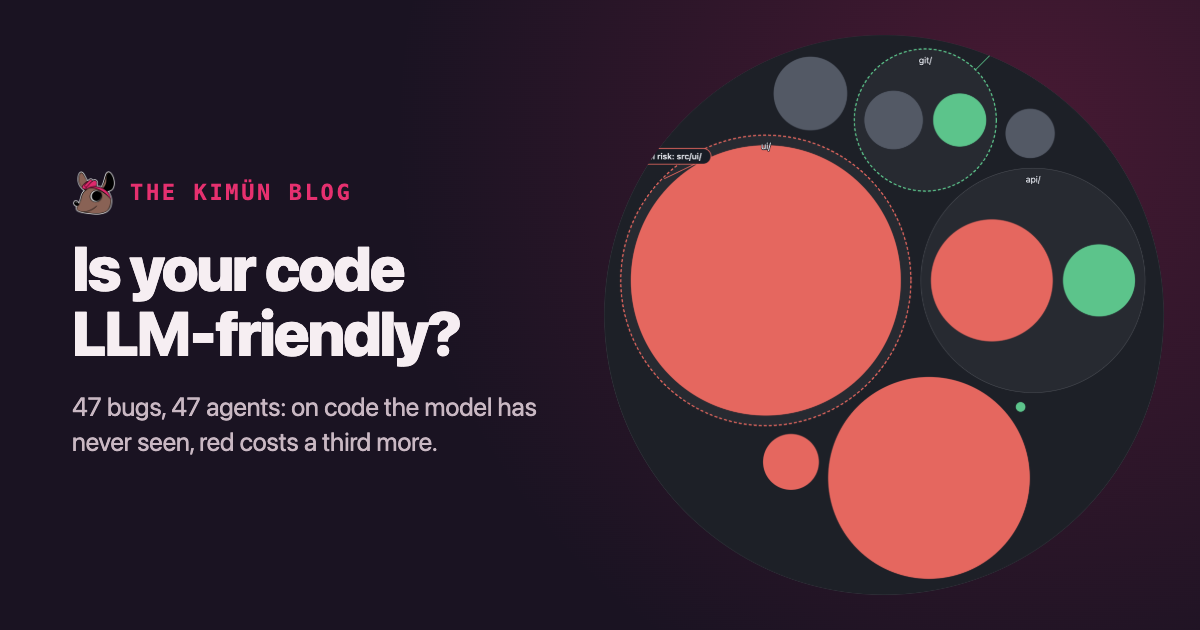
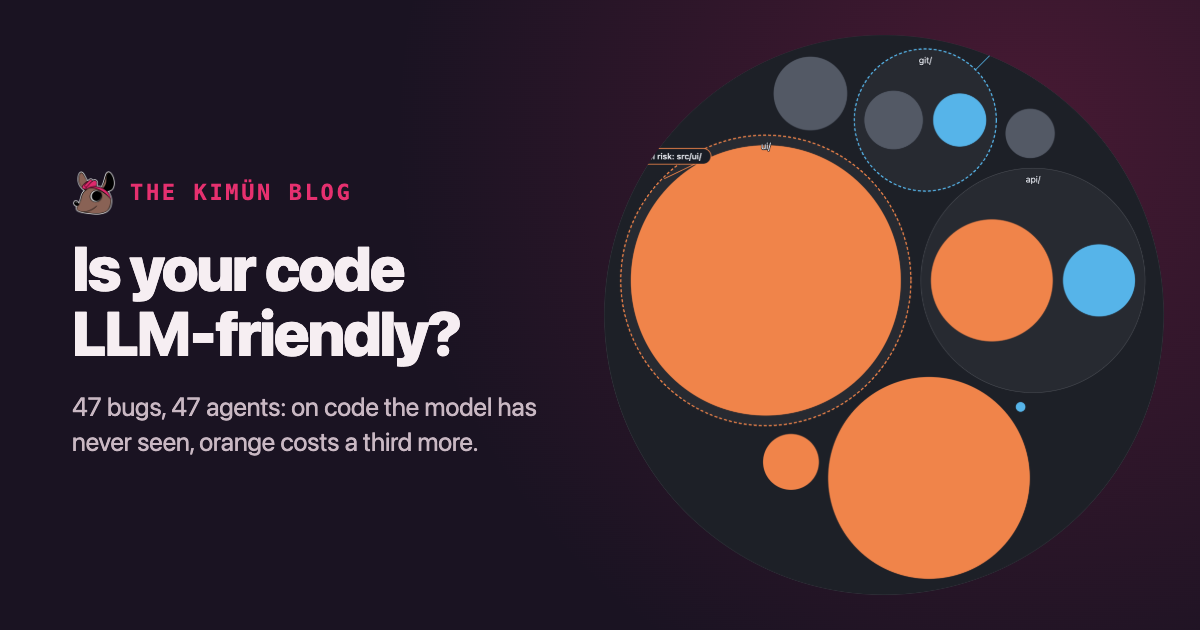
blog: the LLM post uses the map's new orange and blue palette
The maps and social cards are drawn again with the colour-blind safe
palette, the text names the new colours, and a note tells readers of
the first version why the map changed.

Changed region(s): [[0.5242, 0.2111, 0.9558, 0.9349], [0.1542, 0.6937, 0.4008, 0.7238], [0.7708, 0.1508, 0.8325, 0.2413]]

diff --git a/src/content/blog/es/is-your-code-llm-friendly.md b/src/content/blog/es/is-your-code-llm-friendly.md
@@ -1,6 +1,6 @@
 ---
 title: "¿Tu código es amistoso para un LLM?"
-description: "km map --color-by llm marca en rojo el código donde un agente debería sufrir. Lo pusimos a prueba con 47 errores: en código que el modelo ya conocía, el rojo casi no importó; en código nuevo para él, le costó un tercio más."
+description: "km map --color-by llm marca en naranja el código donde un agente debería sufrir. Lo pusimos a prueba con 47 errores: en código que el modelo ya conocía, el naranja casi no importó; en código nuevo para él, le costó un tercio más."
 date: 2026-10-23
 image: /blog/is-your-code-llm-friendly/card-es.png
 ---
@@ -11,7 +11,9 @@ En el [primer artículo de este blog](/blog/measuring-the-quality-of-ai-generate
 
 ## El mapa
 
-`km map` dibuja el código como círculos, al estilo de Adam Tornhill: cada directorio contiene a sus archivos, y el área de cada archivo crece con sus líneas de código. Con `--color-by llm`, el color sale de la nota de `km score`: **verde** desde 95 (apto para LLM), **gris** desde 70 (requiere cuidado) y **rojo** bajo 70 (riesgo). El 95 equivale al 9,5 de CodeScene, aunque las dos herramientas calculan su nota de forma distinta. Los umbrales se cambian en `.kimun.toml`.
+`km map` dibuja el código como círculos, al estilo de Adam Tornhill: cada directorio contiene a sus archivos, y el área de cada archivo crece con sus líneas de código. Con `--color-by llm`, el color sale de la nota de `km score`: **azul** desde 95 (apto para LLM), **gris** desde 70 (requiere cuidado) y **naranja** bajo 70 (riesgo). El 95 equivale al 9,5 de CodeScene, aunque las dos herramientas calculan su nota de forma distinta. Los umbrales se cambian en `.kimun.toml`.
+
+Si leíste este artículo el día que salió, viste el mapa en rojo y verde. Lo cambiamos: cerca del 8% de los hombres no distingue esos dos colores. Desde Kimün 0.45, el mapa usa naranja y azul, que se distinguen con cualquier tipo de daltonismo, y puede agregar achurados para imprimirlo en blanco y negro.
 
 ```bash
 km map --color-by llm --html mapa.html
@@ -19,7 +21,7 @@ km map --color-by llm --html mapa.html
 
 Lo corrimos sobre nueve proyectos conocidos:
 
-| Proyecto | Nota | Rojo | Gris | Verde | Donde se concentra el riesgo |
+| Proyecto | Nota | Naranja | Gris | Azul | Donde se concentra el riesgo |
 |---|---|---|---|---|---|
 | phoenix | A (92,7) | 3% | 66% | 31% | `assets/js/phoenix/` |
 | kimun | A (91,4) | 2% | 74% | 24% | `src/docs/` |
@@ -33,23 +35,23 @@ Lo corrimos sobre nueve proyectos conocidos:
 
 *Porcentaje de líneas de código en cada color. En black excluimos `profiling/` y en redis `deps/`.*
 
-![Mapa de phoenix: casi todo gris y verde, con un solo archivo rojo en assets/js/phoenix/](/blog/is-your-code-llm-friendly/phoenix.png)
+![Mapa de phoenix: casi todo gris y azul, con un solo archivo naranja en assets/js/phoenix/](/blog/is-your-code-llm-friendly/phoenix.png)
 
-*phoenix (A, 92,7). Casi todo es gris o verde. El único archivo rojo es `assets/js/phoenix/socket.js`, con nota 59,6.*
+*phoenix (A, 92,7). Casi todo es gris o azul. El único archivo naranja es `assets/js/phoenix/socket.js`, con nota 59,6.*
 
-![Mapa de click: el círculo rojo más grande es core.py](/blog/is-your-code-llm-friendly/click.png)
+![Mapa de click: el círculo naranja más grande es core.py](/blog/is-your-code-llm-friendly/click.png)
 
-*click (C, 72,5). El círculo rojo grande es `core.py`: casi 2.000 líneas de código con nota 29,7.*
+*click (C, 72,5). El círculo naranja grande es `core.py`: casi 2.000 líneas de código con nota 29,7.*
 
-![Mapa de redis: src/ es casi entero rojo](/blog/is-your-code-llm-friendly/redis.png)
+![Mapa de redis: src/ es casi entero naranja](/blog/is-your-code-llm-friendly/redis.png)
 
-*redis (F, 50,5). `src/` es casi entero rojo; lo encabeza `redis-cli.c`, con 9.569 líneas de código y nota 16,9.*
+*redis (F, 50,5). `src/` es casi entero naranja; lo encabeza `redis-cli.c`, con 9.569 líneas de código y nota 16,9.*
 
 Tres cosas saltan a la vista:
 
-- **El rojo se concentra en el núcleo.** En click, casi todo el riesgo está en `core.py`; en black, en `linegen.py`, el corazón del formateador. El código que más importa es el que más ha crecido.
-- **Una buena nota global no garantiza un mapa verde.** Flask tiene B+, pero casi la mitad de sus líneas están en rojo: muchos archivos pequeños y limpios suben el promedio y esconden a los grandes.
-- **Proyectos muy respetados salen rojos.** ripgrep, el buscador que usa VS Code, tiene la mitad de sus líneas bajo 70. Eso hace levantar una ceja con el umbral.
+- **El naranja se concentra en el núcleo.** En click, casi todo el riesgo está en `core.py`; en black, en `linegen.py`, el corazón del formateador. El código que más importa es el que más ha crecido.
+- **Una buena nota global no garantiza un mapa azul.** Flask tiene B+, pero casi la mitad de sus líneas están en naranja: muchos archivos pequeños y limpios suben el promedio y esconden a los grandes.
+- **Proyectos muy respetados salen naranjas.** ripgrep, el buscador que usa VS Code, tiene la mitad de sus líneas bajo 70. Eso hace levantar una ceja con el umbral.
 
 Si la hipótesis es cierta, un agente debería sudar la gota gorda en `click/core.py` y andar sin problemas en `flask/config.py`. Eso se puede medir.
 
@@ -57,67 +59,67 @@ Si la hipótesis es cierta, un agente debería sudar la gota gorda en `click/cor
 
 Diseñamos y construimos el experimento usando Claude Opus, y los agentes que arreglaron los errores también eran Claude. Como un modelo mide a otro de su familia, publicamos todos los datos y el reporte de cada agente.
 
-En tres proyectos de Python con buenas pruebas elegimos 13 archivos verdes (nota 85 o más) y 12 rojos (menos de 65). En cada uno inyectamos un error de un solo token, de esos que se cuelan en una revisión de código (`==` por `!=`, `and` por `or`), que hiciera fallar entre 1 y 15 pruebas. Cada error fue a una copia aislada del proyecto, con un historial de git nuevo para que `git diff` no lo delatara, y a un agente (Claude Sonnet) con la instrucción de arreglarlo sin tocar las pruebas. Al final volvimos a correr las pruebas nosotros.
+En tres proyectos de Python con buenas pruebas elegimos 13 archivos azules (nota 85 o más) y 12 naranjas (menos de 65). En cada uno inyectamos un error de un solo token, de esos que se cuelan en una revisión de código (`==` por `!=`, `and` por `or`), que hiciera fallar entre 1 y 15 pruebas. Cada error fue a una copia aislada del proyecto, con un historial de git nuevo para que `git diff` no lo delatara, y a un agente (Claude Sonnet) con la instrucción de arreglarlo sin tocar las pruebas. Al final volvimos a correr las pruebas nosotros.
 
-| | Verdes (n=13) | Rojos (n=12) |
+| | Azules (n=13) | Naranjas (n=12) |
 |---|---|---|
 | Arreglo aplicado (las pruebas pasan) | 11/13 | 12/12 |
 | Herramientas usadas (mediana) | 6 | 7 |
 | Tokens de entrada acumulados (mediana) | 355 mil | 389 mil |
 | Tamaño del archivo (mediana) | 385 líneas | 1.145 líneas |
 
-Los agentes encontraron los 25 errores, y en los archivos rojos gastaron apenas un 10% más de tokens. Con 25 casos, eso es ruido.
+Los agentes encontraron los 25 errores, y en los archivos naranjas gastaron apenas un 10% más de tokens. Con 25 casos, eso es ruido.
 
 La razón es simple: el agente no lee el archivo de 4.000 líneas. Corre las pruebas, lee la traza del error, busca la función con `grep` y lee 40 líneas alrededor. Mientras una prueba le diga dónde mirar, la complejidad del archivo le da lo mismo.
 
 Hubo una excepción: `black/linegen.py`. La prueba que fallaba mostraba un espacio de más en la salida, lejos de la línea culpable. Para conectar síntoma y causa el agente tuvo que entender cómo funciona el formateador: leyó más, probó hipótesis, escribió programitas de depuración. Usó 36 herramientas y 2,8 millones de tokens, ocho veces la mediana. Acertó igual, pero le salió caro.
 
-Ahí está la clave. El rojo no marca dónde va a fallar el agente; **marca dónde entender el código es caro**, y el agente paga ese precio solo cuando la tarea lo obliga a entender.
+Ahí está la clave. El naranja no marca dónde va a fallar el agente; **marca dónde entender el código es caro**, y el agente paga ese precio solo cuando la tarea lo obliga a entender.
 
-Pero algo nos hacía ruido. click, flask y black son proyectos públicos y muy populares, casi seguro presentes en los datos de entrenamiento de Claude. Un agente que recuerda cómo está organizado `core.py` no necesita entenderlo. Si el modelo se sabía el código de memoria, el rojo no tenía cómo cobrar.
+Pero algo nos hacía ruido. click, flask y black son proyectos públicos y muy populares, casi seguro presentes en los datos de entrenamiento de Claude. Un agente que recuerda cómo está organizado `core.py` no necesita entenderlo. Si el modelo se sabía el código de memoria, el naranja no tenía cómo cobrar.
 
 ## Segunda ronda: código que el modelo no conoce
 
-Necesitábamos código que el modelo no hubiera visto. Usamos **sc-cli**, una herramienta de línea de comandos para Shortcut escrita en Rust. Su repositorio es público pero tiene una estrella, así que es muy improbable que un modelo lo haya memorizado. Además, fue escrita casi entera con un agente, a punta de pedirle cosas y aceptar lo que salía. El mapa lo delata: nota F- (40,0) y el 87% de las líneas en rojo.
+Necesitábamos código que el modelo no hubiera visto. Usamos **sc-cli**, una herramienta de línea de comandos para Shortcut escrita en Rust. Su repositorio es público pero tiene una estrella, así que es muy improbable que un modelo lo haya memorizado. Además, fue escrita casi entera con un agente, a punta de pedirle cosas y aceptar lo que salía. El mapa lo delata: nota F- (40,0) y el 87% de las líneas en naranja.
 
-![Mapa de sc-cli: dominado por tres círculos rojos, con algo de verde en git/](/blog/is-your-code-llm-friendly/sc-cli.png)
+![Mapa de sc-cli: dominado por tres círculos naranjas, con algo de azul en git/](/blog/is-your-code-llm-friendly/sc-cli.png)
 
-*sc-cli (F-, 40,0). Los círculos rojos grandes son `ui/mod.rs` (2.974 líneas de código, nota 15,3), `main.rs` (30,7) y `api/client.rs` (57,3). Lo poco que está sano vive en `git/`.*
+*sc-cli (F-, 40,0). Los círculos naranjas grandes son `ui/mod.rs` (2.974 líneas de código, nota 15,3), `main.rs` (30,7) y `api/client.rs` (57,3). Lo poco que está sano vive en `git/`.*
 
-Esta vez generamos los errores con [kalku](https://kalku.tools), una herramienta de pruebas de mutación, y nos quedamos con los que hacían fallar entre 1 y 15 pruebas: 10 en archivos de nota alta (`git/`, 92,5 y 99,5) y 12 en los tres rojos. Mismo modelo, mismas instrucciones.
+Esta vez generamos los errores con [kalku](https://kalku.tools), una herramienta de pruebas de mutación, y nos quedamos con los que hacían fallar entre 1 y 15 pruebas: 10 en archivos de nota alta (`git/`, 92,5 y 99,5) y 12 en los tres naranjas. Mismo modelo, mismas instrucciones.
 
-| | Verdes (n=10) | Rojos (n=12) |
+| | Azules (n=10) | Naranjas (n=12) |
 |---|---|---|
 | Arreglo aplicado (las pruebas pasan) | 10/10 | 11/12 |
 | Herramientas usadas (mediana) | 6 | 8 |
 | Tokens de entrada acumulados (mediana) | 356 mil | 473 mil |
 | Tamaño del archivo (mediana) | 591 líneas | 2.123 líneas |
 
-Ahora el rojo sí pasó la cuenta: un 33% más de tokens y dos herramientas más. Tomados de a pares, el intento rojo costó más que el verde en el 90% de los casos, y la probabilidad de que sea azar es de 6 en 10 mil.
+Ahora el naranja sí pasó la cuenta: un 33% más de tokens y dos herramientas más. Tomados de a pares, el intento naranja costó más que el azul en el 90% de los casos, y la probabilidad de que sea azar es de 6 en 10 mil.
 
 El único agente que no dio con el error trabajaba en `main.rs`. El error estaba en un ciclo de paginación, y la prueba que fallaba ejecutaba el programa completo, cuyo resultado depende de la configuración de la máquina. El agente recorrió el código, no encontró nada sospechoso y culpó al entorno. Otra vez, un síntoma lejos de su causa.
 
-Las dos rondas cuentan la misma historia desde lados distintos. Con código que el modelo probablemente conocía, el rojo casi no importó. Con código nuevo para él, costó un tercio más, aunque las pruebas seguían indicándole dónde mirar.
+Las dos rondas cuentan la misma historia desde lados distintos. Con código que el modelo probablemente conocía, el naranja casi no importó. Con código nuevo para él, costó un tercio más, aunque las pruebas seguían indicándole dónde mirar.
 
 ## No le creas al agente
 
-En la primera ronda, los dos arreglos que fallaron fueron en archivos **verdes**, y no por culpa del código. En ambos el agente encontró el error, escribió el arreglo con un `sed -i` que en macOS no funciona y, en el mismo paso, reportó *"todas las pruebas pasan"*. No esperó el resultado del comando. Si no hubiéramos vuelto a correr las pruebas, habríamos contado 25 de 25.
+En la primera ronda, los dos arreglos que fallaron fueron en archivos **azules**, y no por culpa del código. En ambos el agente encontró el error, escribió el arreglo con un `sed -i` que en macOS no funciona y, en el mismo paso, reportó *"todas las pruebas pasan"*. No esperó el resultado del comando. Si no hubiéramos vuelto a correr las pruebas, habríamos contado 25 de 25.
 
 Esa lección vale más que cualquier umbral: **que el agente no te pase gato por liebre. Cuando diga que las pruebas pasan, córrelas tú**, o que las corra tu integración continua.
 
 ## Qué no miden estos experimentos
 
 - **Son 47 casos**, una corrida por error y un solo modelo. La varianza entre corridas puede ser grande.
-- **sc-cli tiene pocos archivos distintos.** Los errores verdes están en dos archivos y los rojos en tres; parte de la diferencia puede venir de esos archivos y no de su color.
+- **sc-cli tiene pocos archivos distintos.** Los errores azules están en dos archivos y los naranjas en tres; parte de la diferencia puede venir de esos archivos y no de su color.
 - **Cambiamos varias cosas a la vez**: lenguaje, proyecto y herramienta de mutaciones.
 - **La tarea favorece al agente**: siempre hubo una prueba que fallaba. Las funcionalidades nuevas, las refactorizaciones y los errores sin una prueba que los delate son harina de otro costal.
 
 ## Cómo leer el mapa, entonces
 
-¿Tu código es amistoso para un LLM? Nuestra respuesta: **amistoso significa barato de entender**. El rojo no anuncia que el agente va a fallar. Anuncia dónde te va a cobrar más, en tokens, en tiempo y en vueltas, cuando tenga que entender en vez de recordar o seguir una pista. Con eso en mente:
+¿Tu código es amistoso para un LLM? Nuestra respuesta: **amistoso significa barato de entender**. El naranja no anuncia que el agente va a fallar. Anuncia dónde te va a cobrar más, en tokens, en tiempo y en vueltas, cuando tenga que entender en vez de recordar o seguir una pista. Con eso en mente:
 
-1. **Cruza el mapa con la historia.** Un archivo rojo que nadie toca no le cuesta nada a nadie; uno que cambia cada semana se paga una y otra vez. [`km map --color-by hotspots`](/docs/map/) y [`km hotspots`](/docs/hotspots/) muestran cuáles son.
-2. **Invierte en pruebas que acorten la distancia** entre síntoma y causa. Una prueba que señala la línea abarata incluso un archivo rojo.
+1. **Cruza el mapa con la historia.** Un archivo naranja que nadie toca no le cuesta nada a nadie; uno que cambia cada semana se paga una y otra vez. [`km map --color-by hotspots`](/docs/map/) y [`km hotspots`](/docs/hotspots/) muestran cuáles son.
+2. **Invierte en pruebas que acorten la distancia** entre síntoma y causa. Una prueba que señala la línea abarata incluso un archivo naranja.
 3. **Mide el código que escriben tus agentes.** sc-cli es lo que pasa cuando nadie lo hace: cada cambio aceptado sin mirar sube la cuenta del próximo agente que lo toque.
 4. **Verifica fuera del agente**, con integración continua y una compuerta como [`km score --fail-if-worse`](/docs/score/), para que la salud del código no empeore sin que nadie lo note.
 
@@ -125,11 +127,11 @@ Esa lección vale más que cualquier umbral: **que el agente no te pase gato por
 
 Estas dos rondas nos dejaron dos preguntas, y en el próximo artículo mostraremos los experimentos que las responden:
 
-1. **¿Qué pasa cuando ninguna prueba ayuda?** En las dos rondas, una prueba le dijo al agente dónde mirar. Pero la suite de sc-cli no detectó 255 de los 304 mutantes que lanzó kalku. Con esos errores, el agente solo tendría un reporte del síntoma, y sospechamos que el rojo cobra mucho más.
+1. **¿Qué pasa cuando ninguna prueba ayuda?** En las dos rondas, una prueba le dijo al agente dónde mirar. Pero la suite de sc-cli no detectó 255 de los 304 mutantes que lanzó kalku. Con esos errores, el agente solo tendría un reporte del síntoma, y sospechamos que el naranja cobra mucho más.
 2. **¿Cuánto pesa la memoria?** sc-cli sugiere que bastante, pero cambiamos demasiadas cosas a la vez. Repetiremos la primera ronda con click, flask y black renombrados, para que el modelo no pueda reconocerlos. La nota de `km score` casi no cambia, porque Kimün mide la estructura y no los nombres.
 
 ---
 
-*Mapas hechos con Kimün 0.44. Datos y programas de las dos rondas en* [lnds/kimun-llm-experiment](https://github.com/lnds/kimun-llm-experiment).
+*Mapas hechos con Kimün 0.45. Datos y programas de las dos rondas en* [lnds/kimun-llm-experiment](https://github.com/lnds/kimun-llm-experiment).
 
 [^codescene]: [CodeScene](https://codescene.com) es una plataforma comercial de análisis de código fundada por Adam Tornhill, autor de *Your Code as a Crime Scene*. Como Kimün, cruza la complejidad del código con su historia en git. Su métrica principal, Code Health, califica cada archivo de 1 a 10.

diff --git a/src/content/blog/en/is-your-code-llm-friendly.md b/src/content/blog/en/is-your-code-llm-friendly.md
@@ -1,6 +1,6 @@
 ---
 title: "Is Your Code LLM-Friendly?"
-description: "km map --color-by llm paints red the code where an agent should struggle. We tested it with 47 bugs. On code the model already knew, red barely mattered. On code it had never seen, red cost a third more."
+description: "km map --color-by llm paints orange the code where an agent should struggle. We tested it with 47 bugs. On code the model already knew, orange barely mattered. On code it had never seen, orange cost a third more."
 date: 2026-10-23
 image: /blog/is-your-code-llm-friendly/card-en.png
 ---
@@ -11,7 +11,9 @@ In the [first post on this blog](/en/blog/measuring-the-quality-of-ai-generated-
 
 ## The map
 
-`km map` draws your code as an enclosure diagram, Adam Tornhill style: every directory is a circle holding its files, and each file's area grows with its lines of code. With `--color-by llm`, the color comes from the `km score` grade: **green** at 95 and up (LLM-friendly), **gray** at 70 and up (proceed with caution) and **red** below 70 (LLM risk). The 95 is our stand-in for CodeScene's 9.5, though the two tools compute their scores differently. You can change the thresholds in `.kimun.toml`.
+`km map` draws your code as an enclosure diagram, Adam Tornhill style: every directory is a circle holding its files, and each file's area grows with its lines of code. With `--color-by llm`, the color comes from the `km score` grade: **blue** at 95 and up (LLM-friendly), **gray** at 70 and up (proceed with caution) and **orange** below 70 (LLM risk). The 95 is our stand-in for CodeScene's 9.5, though the two tools compute their scores differently. You can change the thresholds in `.kimun.toml`.
+
+If you read this post the day it came out, you saw the map in red and green. We changed that: about 8% of men can't tell those two apart. Since Kimün 0.45, the map uses orange and blue, which hold up under every kind of color blindness, and it can add patterns so it still reads when printed in black and white.
 
 ```bash
 km map --color-by llm --html map.html
@@ -19,7 +21,7 @@ km map --color-by llm --html map.html
 
 We ran it on nine well-known projects:
 
-| Project | Score | Red | Gray | Green | Where the risk piles up |
+| Project | Score | Orange | Gray | Blue | Where the risk piles up |
 |---|---|---|---|---|---|
 | phoenix | A (92.7) | 3% | 66% | 31% | `assets/js/phoenix/` |
 | kimun | A (91.4) | 2% | 74% | 24% | `src/docs/` |
@@ -33,23 +35,23 @@ We ran it on nine well-known projects:
 
 *Share of lines of code in each color. We left out `profiling/` in black and `deps/` in redis.*
 
-![Map of phoenix: almost all gray and green, with a single red file in assets/js/phoenix/](/blog/is-your-code-llm-friendly/phoenix.png)
+![Map of phoenix: almost all gray and blue, with a single orange file in assets/js/phoenix/](/blog/is-your-code-llm-friendly/phoenix.png)
 
-*phoenix (A, 92.7). Almost everything is gray or green. The only red file is `assets/js/phoenix/socket.js`, scoring 59.6.*
+*phoenix (A, 92.7). Almost everything is gray or blue. The only orange file is `assets/js/phoenix/socket.js`, scoring 59.6.*
 
-![Map of click: the biggest red circle is core.py](/blog/is-your-code-llm-friendly/click.png)
+![Map of click: the biggest orange circle is core.py](/blog/is-your-code-llm-friendly/click.png)
 
-*click (C, 72.5). The big red circle is `core.py`: almost 2,000 lines of code scoring 29.7.*
+*click (C, 72.5). The big orange circle is `core.py`: almost 2,000 lines of code scoring 29.7.*
 
-![Map of redis: src/ is almost entirely red](/blog/is-your-code-llm-friendly/redis.png)
+![Map of redis: src/ is almost entirely orange](/blog/is-your-code-llm-friendly/redis.png)
 
-*redis (F, 50.5). `src/` is a sea of red, led by `redis-cli.c` with 9,569 lines of code scoring 16.9.*
+*redis (F, 50.5). `src/` is a sea of orange, led by `redis-cli.c` with 9,569 lines of code scoring 16.9.*
 
 A few things jump out:
 
-- **Red clusters at the core.** In click, nearly all the risk lives in `core.py`. In black, it's `linegen.py`, the heart of the formatter. The code that matters most is the code that's grown the most.
-- **A good overall grade doesn't buy you a green map.** Flask gets a B+, yet almost half its lines are red: lots of small, clean files pull the average up and hide the big ones.
-- **Highly respected projects come out red.** ripgrep, the search engine inside VS Code, has half its lines below 70. That should make you side-eye the threshold.
+- **Orange clusters at the core.** In click, nearly all the risk lives in `core.py`. In black, it's `linegen.py`, the heart of the formatter. The code that matters most is the code that's grown the most.
+- **A good overall grade doesn't buy you a blue map.** Flask gets a B+, yet almost half its lines are orange: lots of small, clean files pull the average up and hide the big ones.
+- **Highly respected projects come out orange.** ripgrep, the search engine inside VS Code, has half its lines below 70. That should make you side-eye the threshold.
 
 If the hypothesis holds, an agent should sweat bullets in `click/core.py` and breeze through `flask/config.py`. That's something we can measure.
 
@@ -57,67 +59,67 @@ If the hypothesis holds, an agent should sweat bullets in `click/core.py` and br
 
 We designed and built the experiment with Claude Opus, and the agents that fixed the bugs were Claude too. Since that's one model grading its own family, we published all the data and every agent's report.
 
-In three Python projects with solid test suites, we picked 13 green files (scoring 85 or higher) and 12 red ones (below 65). In each we planted a one-token bug, the kind that slips right past code review (`==` for `!=`, `and` for `or`), that broke between 1 and 15 tests. Every bug got its own isolated copy of the project, with a fresh git history so `git diff` wouldn't give it away, and its own agent (Claude Sonnet), told to fix it without touching the tests. At the end, we reran the tests ourselves.
+In three Python projects with solid test suites, we picked 13 blue files (scoring 85 or higher) and 12 orange ones (below 65). In each we planted a one-token bug, the kind that slips right past code review (`==` for `!=`, `and` for `or`), that broke between 1 and 15 tests. Every bug got its own isolated copy of the project, with a fresh git history so `git diff` wouldn't give it away, and its own agent (Claude Sonnet), told to fix it without touching the tests. At the end, we reran the tests ourselves.
 
-| | Green (n=13) | Red (n=12) |
+| | Blue (n=13) | Orange (n=12) |
 |---|---|---|
 | Fix applied (suite passes) | 11/13 | 12/12 |
 | Tool calls (median) | 6 | 7 |
 | Cumulative input tokens (median) | 355K | 389K |
 | File size (median) | 385 lines | 1,145 lines |
 
-The agents found all 25 bugs and spent just 10% more tokens on red files. With 25 cases, that's noise.
+The agents found all 25 bugs and spent just 10% more tokens on orange files. With 25 cases, that's noise.
 
 The reason is simple: the agent doesn't read the 4,000-line file. It runs the tests, reads the traceback, greps for the function and reads the 40 lines around it. As long as a test points the way, the file's complexity doesn't matter.
 
 There was one exception: `black/linegen.py`. The failing test showed one extra space in the output, far from the guilty line. To connect symptom and cause, the agent had to understand how the formatter works: it read more, tried hypotheses, wrote debug scripts. It made 36 tool calls and burned 2.8 million tokens, eight times the median. It still got it right, but it cost a bundle.
 
-That's the key. Red doesn't flag where the agent will fail. **It flags where understanding the code gets expensive**, and the agent only pays that price when the task forces it to understand.
+That's the key. Orange doesn't flag where the agent will fail. **It flags where understanding the code gets expensive**, and the agent only pays that price when the task forces it to understand.
 
-But something kept bugging us. click, flask and black are public, hugely popular projects, and almost certainly part of Claude's training data. An agent that remembers how `core.py` is laid out doesn't need to understand it. If the model knew the code by heart, red never had a chance to charge.
+But something kept bugging us. click, flask and black are public, hugely popular projects, and almost certainly part of Claude's training data. An agent that remembers how `core.py` is laid out doesn't need to understand it. If the model knew the code by heart, orange never had a chance to charge.
 
 ## Round two: code the model has never seen
 
-We needed code the model hadn't seen. We used **sc-cli**, a command-line tool for Shortcut written in Rust. Its repo is public but has exactly one star, so it's very unlikely any model memorized it. It was also written almost entirely with an agent, by asking for things and taking whatever came back. The map gives it away: an F- (40.0), with 87% of the lines in the red.
+We needed code the model hadn't seen. We used **sc-cli**, a command-line tool for Shortcut written in Rust. Its repo is public but has exactly one star, so it's very unlikely any model memorized it. It was also written almost entirely with an agent, by asking for things and taking whatever came back. The map gives it away: an F- (40.0), with 87% of the lines in the orange.
 
-![Map of sc-cli: dominated by three red circles, with a bit of green in git/](/blog/is-your-code-llm-friendly/sc-cli.png)
+![Map of sc-cli: dominated by three orange circles, with a bit of blue in git/](/blog/is-your-code-llm-friendly/sc-cli.png)
 
-*sc-cli (F-, 40.0). The big red circles are `ui/mod.rs` (2,974 lines of code, scoring 15.3), `main.rs` (30.7) and `api/client.rs` (57.3). The little that's healthy lives in `git/`.*
+*sc-cli (F-, 40.0). The big orange circles are `ui/mod.rs` (2,974 lines of code, scoring 15.3), `main.rs` (30.7) and `api/client.rs` (57.3). The little that's healthy lives in `git/`.*
 
-This time we generated the bugs with [kalku](https://kalku.tools/en/), a mutation testing tool, and kept the ones that broke between 1 and 15 tests: 10 in high-scoring files (`git/`, at 92.5 and 99.5) and 12 in the three red ones. Same model, same prompt.
+This time we generated the bugs with [kalku](https://kalku.tools/en/), a mutation testing tool, and kept the ones that broke between 1 and 15 tests: 10 in high-scoring files (`git/`, at 92.5 and 99.5) and 12 in the three orange ones. Same model, same prompt.
 
-| | Green (n=10) | Red (n=12) |
+| | Blue (n=10) | Orange (n=12) |
 |---|---|---|
 | Fix applied (suite passes) | 10/10 | 11/12 |
 | Tool calls (median) | 6 | 8 |
 | Cumulative input tokens (median) | 356K | 473K |
 | File size (median) | 591 lines | 2,123 lines |
 
-This time red sent the bill: 33% more tokens and two more tool calls. Pair up the trials, and the red one cost more than the green one 90% of the time, with 6-in-10,000 odds that it's chance.
+This time orange sent the bill: 33% more tokens and two more tool calls. Pair up the trials, and the orange one cost more than the blue one 90% of the time, with 6-in-10,000 odds that it's chance.
 
 The one agent that didn't find its bug was working in `main.rs`. The bug sat in a pagination loop, and the failing test ran the whole program, whose output depends on the machine's configuration. The agent combed through the code, found nothing suspicious and blamed the environment. Once again, a symptom far from its cause.
 
-The two rounds tell the same story from opposite ends. On code the model probably knew, red barely mattered. On code it had never seen, red cost a third more, even though the tests were still pointing the way.
+The two rounds tell the same story from opposite ends. On code the model probably knew, orange barely mattered. On code it had never seen, orange cost a third more, even though the tests were still pointing the way.
 
 ## Don't take the agent's word for it
 
-In round one, the two fixes that failed were on **green** files, and the code wasn't to blame. In both, the agent found the bug, wrote the fix with a `sed -i` that doesn't work on macOS and, in the very same step, reported *"the full suite passes."* It never waited for the output. If we hadn't rerun the tests, we'd have counted 25 out of 25.
+In round one, the two fixes that failed were on **blue** files, and the code wasn't to blame. In both, the agent found the bug, wrote the fix with a `sed -i` that doesn't work on macOS and, in the very same step, reported *"the full suite passes."* It never waited for the output. If we hadn't rerun the tests, we'd have counted 25 out of 25.
 
 That lesson beats any threshold: **when an agent says the tests pass, trust, but verify. Run them yourself**, or let your CI do it.
 
 ## What these experiments don't measure
 
 - **It's 47 cases**, one run per bug, with a single model. Run-to-run variance can be large.
-- **sc-cli has few distinct files.** The green bugs sit in two files and the red ones in three, so some of the gap could come from those particular files rather than their color.
+- **sc-cli has few distinct files.** The blue bugs sit in two files and the orange ones in three, so some of the gap could come from those particular files rather than their color.
 - **We changed several things at once**: language, project and mutation tool.
 - **The task plays to the agent's strengths**: there was always a failing test. New features, refactors and bugs with no test pointing at them are a whole different ballgame.
 
 ## So how should you read the map?
 
-Is your code LLM-friendly? Our answer: **friendly means cheap to understand**. Red doesn't predict that the agent will fail. It shows where it'll charge you more, in tokens, in time and in wrong turns, once it has to understand instead of remember or follow a lead. With that in mind:
+Is your code LLM-friendly? Our answer: **friendly means cheap to understand**. Orange doesn't predict that the agent will fail. It shows where it'll charge you more, in tokens, in time and in wrong turns, once it has to understand instead of remember or follow a lead. With that in mind:
 
-1. **Cross the map with your history.** A red file nobody touches costs nobody anything. One that changes every week, you pay for again and again. [`km map --color-by hotspots`](/en/docs/map/) and [`km hotspots`](/en/docs/hotspots/) show you which.
-2. **Invest in tests that shorten the distance** between symptom and cause. A test that points at the line makes even a red file cheaper.
+1. **Cross the map with your history.** A orange file nobody touches costs nobody anything. One that changes every week, you pay for again and again. [`km map --color-by hotspots`](/en/docs/map/) and [`km hotspots`](/en/docs/hotspots/) show you which.
+2. **Invest in tests that shorten the distance** between symptom and cause. A test that points at the line makes even a orange file cheaper.
 3. **Measure the code your agents write.** sc-cli is what happens when nobody does: every change accepted without a look runs up the bill for the next agent that touches it.
 4. **Verify outside the agent**, with CI and a gate like [`km score --fail-if-worse`](/en/docs/score/), so code health doesn't slip without anyone noticing.
 
@@ -125,11 +127,11 @@ Is your code LLM-friendly? Our answer: **friendly means cheap to understand**. R
 
 These two rounds left us with two questions, and in the next post we'll show the experiments that answer them:
 
-1. **What happens when no test helps?** In both rounds, a test told the agent where to look. But sc-cli's suite missed 255 of the 304 mutants kalku threw at it. With those bugs, the agent only gets a description of the symptom, and we suspect red charges a lot more.
+1. **What happens when no test helps?** In both rounds, a test told the agent where to look. But sc-cli's suite missed 255 of the 304 mutants kalku threw at it. With those bugs, the agent only gets a description of the symptom, and we suspect orange charges a lot more.
 2. **How much does memory matter?** sc-cli suggests quite a bit, but we changed too much at once. We'll rerun round one on click, flask and black with every name changed, so the model can't recognize them. The `km score` grade barely moves, because Kimün measures structure, not names.
 
 ---
 
-*Maps made with Kimün 0.44. Data and scripts for both rounds at* [lnds/kimun-llm-experiment](https://github.com/lnds/kimun-llm-experiment).
+*Maps made with Kimün 0.45. Data and scripts for both rounds at* [lnds/kimun-llm-experiment](https://github.com/lnds/kimun-llm-experiment).
 
 [^codescene]: [CodeScene](https://codescene.com) is a commercial code analysis platform founded by Adam Tornhill, author of *Your Code as a Crime Scene*. Like Kimün, it combines code complexity with git history. Its headline metric, Code Health, rates each file from 1 to 10.
